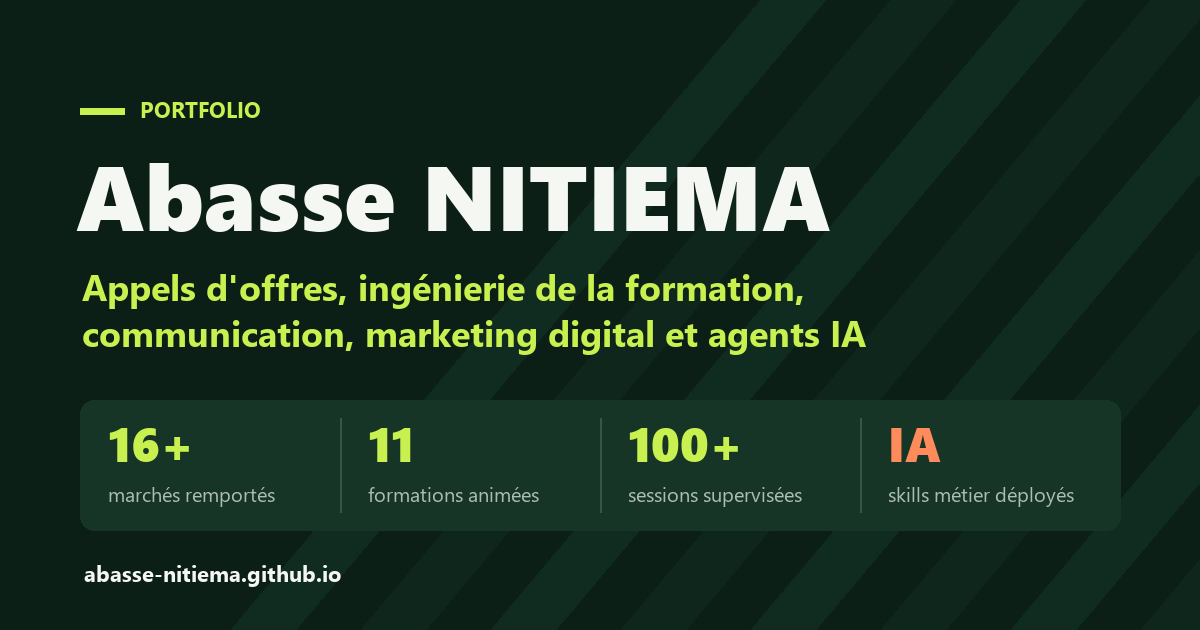
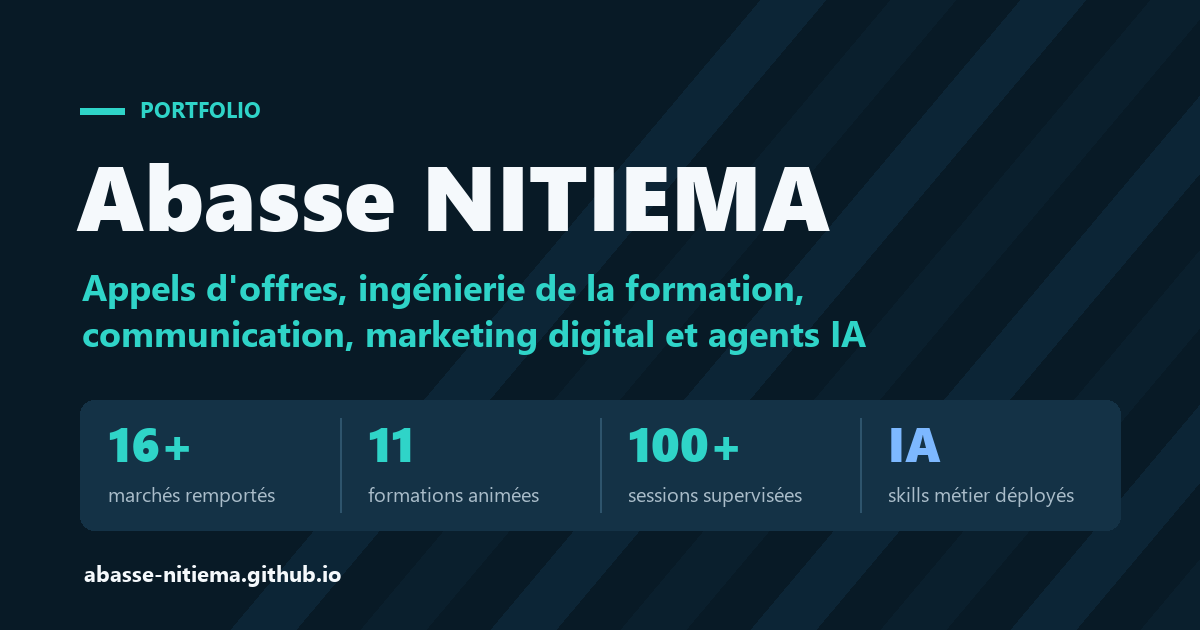
Portfolio : palette bleu pétrole et turquoise

diff --git a/index.html b/index.html
@@ -6,7 +6,7 @@
 <title>Abasse NITIEMA · Appels d'offres, ingénierie de la formation, communication et marketing digital, agents IA et automatisation</title>
 <meta name="description" content="Portfolio d'Abasse NITIEMA, Responsable de la Prospection Internationale et de l'Innovation chez Building Business. Appels d'offres (plus de 16 marchés remportés), ingénierie de la formation, communication et marketing digital, et des skills d'agents IA construits pour l'équipe du cabinet.">
 <link rel="canonical" href="https://abasse-nitiema.github.io/">
-<meta name="theme-color" content="#0B1F17">
+<meta name="theme-color" content="#081A26">
 
 <meta property="og:type" content="profile">
 <meta property="og:title" content="Abasse NITIEMA · Appels d'offres, ingénierie de la formation, communication et marketing digital, agents IA et automatisation">
@@ -57,17 +57,17 @@
 <link href="https://fonts.googleapis.com/css2?family=Space+Grotesk:wght@500;600;700&family=Inter:wght@400;500;600;700&family=IBM+Plex+Mono:wght@400;500;600&display=swap" rel="stylesheet">
 <style>
 :root{
-  --ink:#0B1F17;
-  --panel:#11291F;
-  --panel-2:#173527;
-  --line: rgba(244,247,242,0.14);
-  --sand:#C8F04F;
-  --sand-soft: rgba(200,240,79,0.14);
-  --signal:#FF8A5B;
-  --signal-soft: rgba(255,138,91,0.14);
-  --paper:#F4F7F2;
-  --paper-dim:#AEBDB3;
-  --paper-faint:#84958A;
+  --ink:#081A26;
+  --panel:#0E2636;
+  --panel-2:#143246;
+  --line: rgba(245,249,252,0.14);
+  --sand:#2FD4C8;
+  --sand-soft: rgba(47,212,200,0.14);
+  --signal:#7DB8FF;
+  --signal-soft: rgba(125,184,255,0.14);
+  --paper:#F5F9FC;
+  --paper-dim:#A9BCC9;
+  --paper-faint:#7F94A3;
   --radius: 2px;
   --maxw: 1120px;
   --gutter: clamp(16px, 4vw, 32px);
@@ -97,7 +97,7 @@ p{ overflow-wrap:anywhere; }
 .eyebrow::before{ content:""; width:22px; height:1px; background:var(--sand); display:inline-block; flex-shrink:0; }
 
 /* ---------- NAV ---------- */
-header.nav{ position:sticky; top:0; z-index:50; background:rgba(11,31,23,0.88); backdrop-filter:blur(10px); -webkit-backdrop-filter:blur(10px); border-bottom:1px solid var(--line); }
+header.nav{ position:sticky; top:0; z-index:50; background:rgba(8,26,38,0.88); backdrop-filter:blur(10px); -webkit-backdrop-filter:blur(10px); border-bottom:1px solid var(--line); }
 .nav-inner{ max-width:var(--maxw); margin:0 auto; padding:14px var(--gutter); display:flex; align-items:center; justify-content:space-between; gap:16px; }
 .brand{ font-family:var(--serif); font-weight:600; font-size:18px; letter-spacing:0.01em; white-space:nowrap; text-decoration:none; }
 .brand span{ color:var(--sand); }
@@ -117,7 +117,7 @@ nav.links a.active{ border-bottom-color:var(--sand); }
 .burger[aria-expanded="true"] span:nth-child(1){ transform:translateY(6.5px) rotate(45deg); }
 .burger[aria-expanded="true"] span:nth-child(2){ opacity:0; }
 .burger[aria-expanded="true"] span:nth-child(3){ transform:translateY(-6.5px) rotate(-45deg); }
-.mobile-menu{ display:none; border-top:1px solid var(--line); background:rgba(11,31,23,0.98); }
+.mobile-menu{ display:none; border-top:1px solid var(--line); background:rgba(8,26,38,0.98); }
 .mobile-menu.open{ display:block; }
 .mobile-menu ul{ list-style:none; margin:0; padding:8px var(--gutter) 16px; }
 .mobile-menu a{ display:block; padding:13px 0; text-decoration:none; color:var(--paper); font-family:var(--mono); font-size:14px; letter-spacing:0.03em; border-bottom:1px solid var(--line); }
@@ -129,7 +129,7 @@ nav.links a.active{ border-bottom-color:var(--sand); }
 /* ---------- BUTTONS ---------- */
 .btn-primary, .btn-ghost{ font-family:var(--mono); font-size:13px; letter-spacing:0.03em; padding:13px 22px; text-decoration:none; display:inline-flex; align-items:center; justify-content:center; gap:8px; transition:all .2s ease; border-radius:var(--radius); cursor:pointer; min-height:44px; text-align:center; }
 .btn-primary{ background:var(--sand); color:var(--ink); font-weight:600; border:1px solid var(--sand); }
-.btn-primary:hover{ background:#D8F77A; transform:translateY(-1px); }
+.btn-primary:hover{ background:#5FE6DC; transform:translateY(-1px); }
 .btn-ghost{ border:1px solid var(--line); color:var(--paper); background:transparent; }
 .btn-ghost:hover{ border-color:var(--paper-dim); }
 @media (max-width:480px){ .hero-ctas a, .contact-links a{ width:100%; } }
@@ -137,7 +137,7 @@ nav.links a.active{ border-bottom-color:var(--sand); }
 /* ---------- HERO ---------- */
 .hero{ padding:clamp(52px, 8vw, 92px) 0 clamp(44px, 6vw, 64px); position:relative; overflow:hidden; }
 .hero::before{ content:""; position:absolute; inset:0; pointer-events:none;
-  background: radial-gradient(680px 420px at 82% -10%, rgba(200,240,79,0.10), transparent 60%), radial-gradient(520px 360px at -10% 30%, rgba(255,138,91,0.08), transparent 60%); }
+  background: radial-gradient(680px 420px at 82% -10%, rgba(47,212,200,0.10), transparent 60%), radial-gradient(520px 360px at -10% 30%, rgba(125,184,255,0.08), transparent 60%); }
 .hero-grid{ display:grid; grid-template-columns:1.1fr 0.9fr; gap:clamp(28px, 5vw, 56px); align-items:center; position:relative; }
 @media (max-width:920px){ .hero-grid{ grid-template-columns:1fr; } }
 .hero h1{ font-size:clamp(30px, 5vw, 52px); line-height:1.1; letter-spacing:-0.01em; margin:18px 0 22px; }
@@ -152,7 +152,7 @@ nav.links a.active{ border-bottom-color:var(--sand); }
 .map-grid{ display:grid; grid-template-columns:1fr 1fr; gap:22px; position:relative; }
 @media (max-width:520px){ .map-grid{ grid-template-columns:1fr; } .flow{ display:none; } }
 .method{ list-style:none; margin:0; padding:0; display:grid; gap:8px; counter-reset:m; }
-.method li{ border:1px solid var(--line); background:rgba(11,31,23,0.55); padding:10px 12px 10px 40px; position:relative; font-size:13.5px; color:var(--paper); font-weight:600; line-height:1.3; }
+.method li{ border:1px solid var(--line); background:rgba(8,26,38,0.55); padding:10px 12px 10px 40px; position:relative; font-size:13.5px; color:var(--paper); font-weight:600; line-height:1.3; }
 .method li::before{ counter-increment:m; content:counter(m, decimal-leading-zero); position:absolute; left:12px; top:11px; font-family:var(--mono); font-size:11px; color:var(--sand); font-weight:500; }
 .method li span{ display:block; font-family:var(--mono); font-size:10.5px; color:var(--paper-faint); font-weight:400; margin-top:3px; letter-spacing:0.02em; }
 .outputs{ display:grid; gap:10px; align-content:center; }
@@ -165,7 +165,7 @@ nav.links a.active{ border-bottom-color:var(--sand); }
 .out .n{ font-family:var(--serif); font-size:26px; line-height:1; color:var(--sand); font-weight:600; }
 .out.b .n{ color:var(--signal); }
 .out .s{ font-family:var(--mono); font-size:10.5px; color:var(--paper-faint); margin-top:6px; line-height:1.45; }
-.flow{ position:absolute; top:6px; bottom:6px; left:calc(50% - 1px); width:2px; background:repeating-linear-gradient(to bottom, rgba(244,247,242,0.20) 0 4px, transparent 4px 9px); pointer-events:none; }
+.flow{ position:absolute; top:6px; bottom:6px; left:calc(50% - 1px); width:2px; background:repeating-linear-gradient(to bottom, rgba(245,249,252,0.20) 0 4px, transparent 4px 9px); pointer-events:none; }
 .flow i{ position:absolute; left:-2px; width:6px; height:6px; border-radius:50%; background:var(--sand); box-shadow:0 0 0 4px var(--sand-soft); animation:flow 3.6s linear infinite; }
 .flow i + i{ background:var(--signal); box-shadow:0 0 0 4px var(--signal-soft); animation-delay:1.8s; }
 @keyframes flow{ 0%{ top:0; opacity:0; } 8%{ opacity:1; } 92%{ opacity:1; } 100%{ top:calc(100% - 6px); opacity:0; } }
@@ -212,7 +212,7 @@ section.first{ border-top:none; }
 
 /* ---------- SYSTEMS ---------- */
 #systemes{ position:relative; }
-#systemes::before{ content:""; position:absolute; inset:0; pointer-events:none; background:radial-gradient(900px 500px at 50% 0%, rgba(255,138,91,0.06), transparent 65%); }
+#systemes::before{ content:""; position:absolute; inset:0; pointer-events:none; background:radial-gradient(900px 500px at 50% 0%, rgba(125,184,255,0.06), transparent 65%); }
 #systemes .wrap{ position:relative; }
 .sys-grid{ display:grid; grid-template-columns:1fr 1fr; gap:clamp(18px, 2.4vw, 26px); }
 @media (max-width:920px){ .sys-grid{ grid-template-columns:1fr; } }
@@ -240,7 +240,7 @@ section.first{ border-top:none; }
 .keep strong{ color:var(--paper); font-weight:600; }
 .stack{ margin-top:auto; display:flex; flex-wrap:wrap; gap:8px; align-items:center; }
 .pill{ font-family:var(--mono); font-size:11px; color:var(--paper-dim); border:1px solid var(--line); padding:5px 10px; letter-spacing:0.02em; }
-.more{ color:var(--signal); font-family:var(--mono); font-size:12px; text-decoration:none; border-bottom:1px solid rgba(255,138,91,0.4); margin-left:auto; white-space:nowrap; }
+.more{ color:var(--signal); font-family:var(--mono); font-size:12px; text-decoration:none; border-bottom:1px solid rgba(125,184,255,0.4); margin-left:auto; white-space:nowrap; }
 .more:hover{ border-bottom-color:var(--signal); }
 
 .also{ margin-top:clamp(22px, 3vw, 30px); display:grid; grid-template-columns:1fr 1fr; gap:1px; background:var(--line); border:1px solid var(--line); }
@@ -256,7 +256,7 @@ section.first{ border-top:none; }
 .also .cell.wide .more + .more{ margin-left:16px; }
 @media (max-width:820px){ .also .cell.wide{ grid-template-columns:1fr; } }
 .after{ margin-top:16px; display:flex; justify-content:space-between; align-items:center; gap:16px; flex-wrap:wrap; font-family:var(--mono); font-size:11.5px; color:var(--paper-faint); line-height:1.55; }
-.after a{ color:var(--sand); text-decoration:none; border-bottom:1px solid rgba(200,240,79,0.4); }
+.after a{ color:var(--sand); text-decoration:none; border-bottom:1px solid rgba(47,212,200,0.4); }
 .after a:hover{ border-bottom-color:var(--sand); }
 .after .conf{ max-width:64ch; }
 
@@ -303,7 +303,7 @@ svg.chain{ width:100%; height:auto; display:block; }
 .pillar li::before{ content:"→"; position:absolute; left:0; color:var(--sand); font-size:13px; }
 .pillar-links{ margin-top:18px; padding-top:14px; border-top:1px solid var(--line); display:flex; flex-wrap:wrap; gap:10px 16px; align-items:center; }
 .pillar-links .k{ width:100%; font-family:var(--mono); font-size:11px; color:var(--paper-dim); letter-spacing:0.08em; text-transform:uppercase; }
-.pillar-links a{ color:var(--signal); font-family:var(--mono); font-size:12px; text-decoration:none; border-bottom:1px solid rgba(255,138,91,0.4); }
+.pillar-links a{ color:var(--signal); font-family:var(--mono); font-size:12px; text-decoration:none; border-bottom:1px solid rgba(125,184,255,0.4); }
 .pillar-links a:hover{ border-bottom-color:var(--signal); }
 
 /* ---------- MANDATES ---------- */
@@ -354,7 +354,7 @@ footer{ padding:clamp(56px, 7vw, 84px) 0 40px; border-top:1px solid var(--line);
 .reveal{ opacity:0; transform:translateY(14px); transition:opacity .6s ease, transform .6s ease; }
 .reveal.in{ opacity:1; transform:none; }
 @media (prefers-reduced-motion: reduce){ .reveal{ opacity:1; transform:none; transition:none; } }
-.to-top{ position:fixed; right:18px; bottom:18px; z-index:40; width:42px; height:42px; border:1px solid var(--line); background:rgba(17,41,31,0.9); color:var(--paper); cursor:pointer; font-family:var(--mono); font-size:14px; opacity:0; pointer-events:none; transition:opacity .25s ease; display:flex; align-items:center; justify-content:center; backdrop-filter:blur(6px); }
+.to-top{ position:fixed; right:18px; bottom:18px; z-index:40; width:42px; height:42px; border:1px solid var(--line); background:rgba(14,38,54,0.9); color:var(--paper); cursor:pointer; font-family:var(--mono); font-size:14px; opacity:0; pointer-events:none; transition:opacity .25s ease; display:flex; align-items:center; justify-content:center; backdrop-filter:blur(6px); }
 .to-top.show{ opacity:1; pointer-events:auto; }
 .to-top:hover{ border-color:var(--sand); color:var(--sand); }
 
@@ -497,26 +497,26 @@ footer{ padding:clamp(56px, 7vw, 84px) 0 40px; border-top:1px solid var(--line);
       <div class="chain-card reveal">
         <div class="cap" data-i18n="chain-cap">Comment je travaille&nbsp;: une chaîne, pas des tâches isolées</div>
         <svg class="chain" viewBox="0 0 470 262" xmlns="http://www.w3.org/2000/svg" role="img" aria-label="Chaîne de travail : veille, offre, automatisation, suivi">
-          <path d="M40,40 C120,40 90,120 170,120 S220,200 290,200 S370,120 400,120" fill="none" stroke="rgba(244,247,242,0.18)" stroke-width="1.5" stroke-dasharray="3 5"/>
-          <circle r="3.2" fill="#C8F04F" class="pulse" style="offset-path:path('M40,40 C120,40 90,120 170,120 S220,200 290,200 S370,120 400,120'); offset-rotate:0deg;"/>
-          <circle r="3.2" fill="#FF8A5B" class="pulse" style="offset-path:path('M40,40 C120,40 90,120 170,120 S220,200 290,200 S370,120 400,120'); offset-rotate:0deg; animation-delay:1.7s;"/>
+          <path d="M40,40 C120,40 90,120 170,120 S220,200 290,200 S370,120 400,120" fill="none" stroke="rgba(245,249,252,0.18)" stroke-width="1.5" stroke-dasharray="3 5"/>
+          <circle r="3.2" fill="#2FD4C8" class="pulse" style="offset-path:path('M40,40 C120,40 90,120 170,120 S220,200 290,200 S370,120 400,120'); offset-rotate:0deg;"/>
+          <circle r="3.2" fill="#7DB8FF" class="pulse" style="offset-path:path('M40,40 C120,40 90,120 170,120 S220,200 290,200 S370,120 400,120'); offset-rotate:0deg; animation-delay:1.7s;"/>
           <g>
-            <circle cx="40" cy="40" r="7" fill="#0B1F17" stroke="#C8F04F" stroke-width="2"/>
+            <circle cx="40" cy="40" r="7" fill="#081A26" stroke="#2FD4C8" stroke-width="2"/>
             <text x="40" y="20" text-anchor="middle" class="chain-node-label" data-i18n="ch1">Veille</text>
             <text x="6" y="65" text-anchor="start" class="chain-label" data-i18n="ch1s">marchés · tendances</text>
           </g>
           <g>
-            <circle cx="170" cy="120" r="7" fill="#0B1F17" stroke="#C8F04F" stroke-width="2"/>
+            <circle cx="170" cy="120" r="7" fill="#081A26" stroke="#2FD4C8" stroke-width="2"/>
             <text x="170" y="100" text-anchor="middle" class="chain-node-label" data-i18n="ch2">Offre</text>
             <text x="170" y="145" text-anchor="middle" class="chain-label" data-i18n="ch2s">appels d'offres · campagnes</text>
           </g>
           <g>
-            <circle cx="290" cy="200" r="7" fill="#0B1F17" stroke="#FF8A5B" stroke-width="2"/>
+            <circle cx="290" cy="200" r="7" fill="#081A26" stroke="#7DB8FF" stroke-width="2"/>
             <text x="290" y="228" text-anchor="middle" class="chain-node-label" data-i18n="ch3">Automatisation</text>
             <text x="290" y="248" text-anchor="middle" class="chain-label" data-i18n="ch3s">agents IA · API</text>
           </g>
           <g>
-            <circle cx="400" cy="120" r="7" fill="#0B1F17" stroke="#FF8A5B" stroke-width="2"/>
+            <circle cx="400" cy="120" r="7" fill="#081A26" stroke="#7DB8FF" stroke-width="2"/>
             <text x="400" y="100" text-anchor="middle" class="chain-node-label" data-i18n="ch4">Suivi</text>
             <text x="400" y="145" text-anchor="middle" class="chain-label" data-i18n="ch4s">mise en œuvre · KPI</text>
           </g>

diff --git a/assets/demo-interactive.html b/assets/demo-interactive.html
@@ -7,10 +7,10 @@
 <link rel="preconnect" href="https://fonts.googleapis.com"><link rel="preconnect" href="https://fonts.gstatic.com" crossorigin><link href="https://fonts.googleapis.com/css2?family=Inter:wght@400;500;600;700&family=IBM+Plex+Mono:wght@400;500;600&display=swap" rel="stylesheet">
 <style>
 :root{
-  --fond:#0B1F17;--surface:#11291F;--surface-2:#173527;--encre:#F4F7F2;--doux:#AEBDB3;--trait:#2E4166;
-  --accent:#C8F04F;--accent-doux:#33301F;--accent-encre:#0B1F17;
-  --ok:#FF8A5B;--ok-doux:#17342E;--attention:#C8F04F;--attention-doux:#332A18;--critique:#E27A6A;--critique-doux:#3A211E;
-  --console:#0A1526;--console-texte:#e2e8ee;--console-ok:#FF8A5B;--console-info:#8FB6E8;--console-cmd:#C8F04F;
+  --fond:#081A26;--surface:#0E2636;--surface-2:#143246;--encre:#F5F9FC;--doux:#A9BCC9;--trait:#2E4166;
+  --accent:#2FD4C8;--accent-doux:#33301F;--accent-encre:#081A26;
+  --ok:#7DB8FF;--ok-doux:#17342E;--attention:#2FD4C8;--attention-doux:#332A18;--critique:#E27A6A;--critique-doux:#3A211E;
+  --console:#0A1526;--console-texte:#e2e8ee;--console-ok:#7DB8FF;--console-info:#8FB6E8;--console-cmd:#2FD4C8;
   --police:"Inter","Segoe UI",system-ui,-apple-system,Roboto,"Helvetica Neue",Arial,sans-serif;
   --mono:"IBM Plex Mono",ui-monospace,"Cascadia Mono",Consolas,"SF Mono",Menlo,monospace;
   color-scheme:dark;
